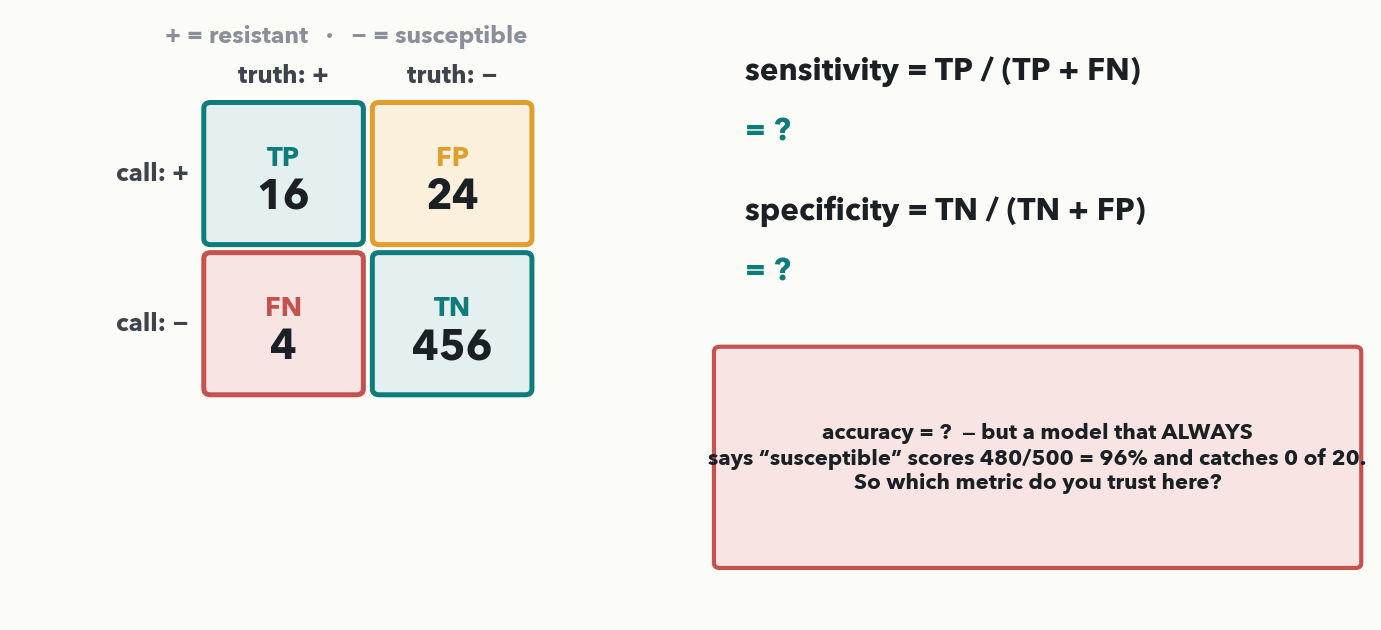
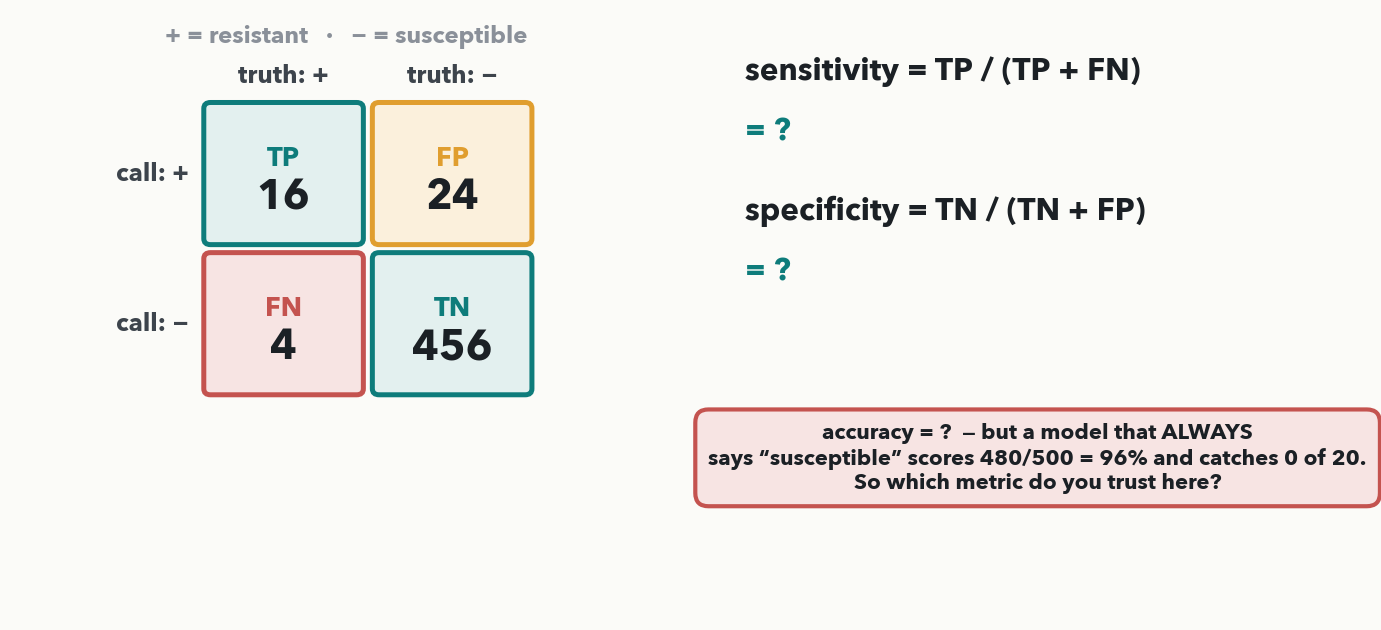
figures: fix text overflowing hand-drawn boxes in 4 figures
Figure-baked text (not pptx boxes) spilled outside fixed matplotlib box
patches: ce_formula's 'so only the TRUE class survives' (+119px each side),
confusion_matrix trap box, dino 'make outputs MATCH', guardrails 'what it
does' x2. Fixes: ce_formula + confusion_matrix now use an auto-fitting text
bbox= instead of an undersized fixed patch; dino/guardrails patches widened
(with arrow endpoint / font tweaks) to contain their labels. Regenerated the
5 affected PNGs.

Add tools/check_figure_overflow.py: a rendering-based checker that draws every
figure via the Agg renderer and flags any Text wider than its enclosing
hand-drawn box (excludes auto-fit bboxes and full-axes-width background panels).
138 renders, 5 overflows -> 0. pptx overlap/text-overflow/fractional-EMU all
still clean; slide counts unchanged.

Changed region(s): [[0.4982, 0.5429, 1.0, 0.9048]]

diff --git a/tools/check_figure_overflow.py b/tools/check_figure_overflow.py
@@ -1,0 +1,223 @@
+#!/usr/bin/env python3
+"""Sanity-check the figure toolkit for text that overflows a hand-drawn box.
+
+This is a DIFFERENT bug from the PowerPoint-box overflow checked by
+tools/check_text_overflow.py. Here the offending text is baked INTO a matplotlib
+figure PNG: a figure function draws a fixed-size box patch (FancyBboxPatch /
+Rectangle) and then draws a SEPARATE ax.text(...) centred over it, at a font size
+whose rendered width/height exceeds the patch -- so the text spills outside the
+box in the final PNG (e.g. ce_formula's "so only the TRUE class survives" box).
+
+How it works (non-invasive): it imports tools.make_slide_figures, monkeypatches
+the module's `_save` so that, right before each real figure is written and
+closed, we draw the Agg canvas, measure every Text artist's rendered pixel
+extent, and for each Text find the enclosing hand-drawn box patch (a
+FancyBboxPatch or Rectangle whose pixel bounds contain the text's anchor point).
+A text that has its OWN auto-fitting bbox (t.get_bbox_patch()) is skipped -- that
+box always fits by construction. If an enclosing patch exists and the text's
+window_extent is not contained within the patch's window_extent (minus TOL_PX on
+each side), it is FLAGGED.
+
+The DEFINING symptom of this bug is horizontal: the rendered text is WIDER than
+the box that is supposed to wrap it, so it spills past the left/right edge. We
+flag only that -- a text whose pixel width exceeds its enclosing box's width by
+more than TOL_PX. This deliberately ignores two look-alikes that are NOT the
+bug: (a) text sitting near the edge of a large CONTAINER panel / axes-background
+rectangle (the text fits the width, it is just tall or near an edge), and
+(b) LaTeX-math labels whose bounding box is inflated vertically by \sum /
+superscripts while the glyphs fit comfortably inside the box.
+
+It then runs the toolkit's real build_all() so every figure is exercised exactly
+as it is normally generated (correct args, correct PNG name) -- but figures are
+NOT written to disk during the check (the monkeypatched _save closes the fig
+without saving), so running the checker never mutates slides/assets/img/.
+
+Usage:
+    python tools/check_figure_overflow.py            # check every figure
+Exit code is nonzero if any box overflows its text.
+"""
+
+import sys
+from pathlib import Path
+
+import matplotlib
+
+matplotlib.use("Agg")
+import matplotlib.pyplot as plt
+from matplotlib.patches import FancyBboxPatch, Rectangle
+from matplotlib.text import Text
+
+ROOT = Path(__file__).resolve().parent.parent
+sys.path.insert(0, str(ROOT / "tools"))
+
+import make_slide_figures as msf  # noqa: E402
+
+# Tolerance: how many pixels a text may poke past its box before we flag it.
+# 3px absorbs antialiasing / rounding; real overflows here are tens of pixels.
+TOL_PX = 3.0
+
+# The figure paper background (matplotlib RGBA of msf.PAPER "#FBFBF8"). A
+# full-span rectangle in this colour is the AXES BACKGROUND, not a wrap-box, so
+# a free caption drawn over the paper must never be treated as "inside a box."
+PAPER_RGBA = (0.98, 0.98, 0.97)
+
+
+def _is_wrapbox(patch, axbb, renderer):
+    """A patch counts as a text-wrapping box only if it is NOT the axes-background
+    paper panel: it must not be paper-coloured AND not span (almost) the full
+    axes width. Real wrap-boxes have a distinct fill (grey/teal/pink/white card)
+    and are narrower than the whole plot."""
+    try:
+        fc = patch.get_facecolor()
+    except Exception:
+        fc = None
+    if fc is not None and patch.get_fill():
+        if all(abs(fc[k] - PAPER_RGBA[k]) < 0.015 for k in range(3)):
+            return False
+    try:
+        bb = patch.get_window_extent(renderer=renderer)
+    except Exception:
+        return True
+    if axbb.width > 1 and bb.width >= 0.95 * axbb.width:
+        return False
+    return True
+
+_flags = []  # (png_name, text_snippet, side->overflow_px, text_bbox, patch_bbox)
+
+
+def _bbox_contains_point(bb, x, y):
+    return bb.x0 <= x <= bb.x1 and bb.y0 <= y <= bb.y1
+
+
+def _snippet(s, n=48):
+    s = " ".join(s.split())
+    return s if len(s) <= n else s[: n - 1] + "\u2026"
+
+
+def _check_fig(fig, name):
+    """Measure every Text against any hand-drawn box that encloses it."""
+    fig.canvas.draw()
+    renderer = fig.canvas.get_renderer()
+
+    for ax in fig.get_axes():
+        axbb = ax.get_window_extent(renderer=renderer)
+        texts = [c for c in ax.get_children() if isinstance(c, Text)]
+        boxes = [
+            c
+            for c in ax.get_children()
+            if isinstance(c, (FancyBboxPatch, Rectangle))
+            and _is_wrapbox(c, axbb, renderer)
+        ]
+        for t in texts:
+            if not t.get_text().strip():
+                continue
+            if not t.get_visible():
+                continue
+            # A text with its OWN auto-fitting bbox always fits -> skip.
+            if t.get_bbox_patch() is not None:
+                continue
+            try:
+                tbb = t.get_window_extent(renderer=renderer)
+            except Exception:
+                continue
+            tcx = 0.5 * (tbb.x0 + tbb.x1)
+            tcy = 0.5 * (tbb.y0 + tbb.y1)
+
+            # Find the SMALLEST hand-drawn box whose pixel bounds contain the
+            # text's centre point (the intended enclosing box).
+            enclosing = None
+            enc_area = None
+            for b in boxes:
+                if not b.get_visible():
+                    continue
+                try:
+                    bbb = b.get_window_extent(renderer=renderer)
+                except Exception:
+                    continue
+                if bbb.width <= 1 or bbb.height <= 1:
+                    continue
+                if _bbox_contains_point(bbb, tcx, tcy):
+                    area = bbb.width * bbb.height
+                    if enc_area is None or area < enc_area:
+                        enclosing, enc_area = bbb, area
+            if enclosing is None:
+                continue
+
+            # The bug is HORIZONTAL: text wider than the box that wraps it.
+            # Require the text to actually be wider than the box (the defining
+            # symptom) before flagging -- this excludes container panels and
+            # tall math bounding boxes whose glyphs fit the width fine.
+            if tbb.width <= enclosing.width + 2 * TOL_PX:
+                continue
+            over = {
+                "left": enclosing.x0 - tbb.x0,
+                "right": tbb.x1 - enclosing.x1,
+            }
+            worst = max(over.values())
+            if worst > TOL_PX:
+                sides = {k: round(v, 1) for k, v in over.items() if v > TOL_PX}
+                _flags.append(
+                    (
+                        name,
+                        _snippet(t.get_text()),
+                        sides,
+                        (round(tbb.x0), round(tbb.y0), round(tbb.x1), round(tbb.y1)),
+                        (
+                            round(enclosing.x0),
+                            round(enclosing.y0),
+                            round(enclosing.x1),
+                            round(enclosing.y1),
+                        ),
+                    )
+                )
+
+
+def main():
+    checked = {"n": 0}
+    real_save = msf._save
+
+    def fake_save(fig, name, dpi=150):
+        checked["n"] += 1
+        try:
+            _check_fig(fig, name)
+        finally:
+            plt.close(fig)
+
+    msf._save = fake_save
+    # Silence the per-figure "wrote ..." spam from build_all's own prints by
+    # keeping them -- they help show progress; but they say "wrote" even though
+    # we do not write. Suppress to avoid confusion.
+    import builtins
+
+    real_print = builtins.print
+
+    def quiet_print(*a, **k):
+        msg = " ".join(str(x) for x in a)
+        if msg.strip().startswith("wrote "):
+            return
+        real_print(*a, **k)
+
+    builtins.print = quiet_print
+    try:
+        msf.build_all()
+    finally:
+        builtins.print = real_print
+        msf._save = real_save
+
+    real_print(f"\nchecked {checked['n']} figure render(s)")
+    if not _flags:
+        real_print("PASS: 0 overflowing box(es)")
+        return 0
+
+    real_print(f"\nFAIL: {len(_flags)} overflowing box(es):")
+    for name, snip, sides, tbb, pbb in _flags:
+        side_str = ", ".join(f"{k} +{v}px" for k, v in sides.items())
+        real_print(f"  [{name}] \"{snip}\"")
+        real_print(f"      overflow: {side_str}")
+        real_print(f"      text  bbox px: {tbb}")
+        real_print(f"      patch bbox px: {pbb}")
+    return 1
+
+
+if __name__ == "__main__":
+    sys.exit(main())

diff --git a/tools/make_slide_figures.py b/tools/make_slide_figures.py
@@ -1340,13 +1340,13 @@ def crossentropy_formula(name="fig_ce_formula.png"):
     ax.text(0.5, 0.68,
             r"truth is one-hot: the true class has $y=1$, every other class $y=0$",
             ha="center", va="center", fontsize=14, color=MUTED)
-    # reduction
-    ax.add_patch(FancyBboxPatch((0.20, 0.40), 0.60, 0.16,
-                boxstyle="round,pad=0.01,rounding_size=0.03",
-                facecolor="#F1F1EC", edgecolor=HAIRLINE, lw=1.3))
+    # reduction -- give the text its own auto-fitting box so it can never
+    # overflow (a fixed FancyBboxPatch was too narrow for the 22pt line).
     ax.text(0.5, 0.48,
             r"so only the TRUE class survives:  $\mathrm{CE}\;=\;-\log(p_{\mathrm{true}})$",
-            ha="center", va="center", fontsize=22, color=TEAL, fontweight="bold")
+            ha="center", va="center", fontsize=22, color=TEAL, fontweight="bold",
+            bbox=dict(boxstyle="round,pad=0.5", facecolor="#F1F1EC",
+                      edgecolor=HAIRLINE, linewidth=1.3))
     # worked substitution anchor
     ax.text(0.5, 0.20,
             r"e.g. truth is R and the model says $p_{\mathrm{true}}=0.90$:   "
@@ -3704,10 +3704,8 @@ def confusion_matrix(tp, fn, fp, tn, mode="ido", name="fig_confusion_ido.png",
             ("= ?" if blank else
              f"= {tn:g} / {neg:g} = {spec:.2f}  ({spec*100:.0f}%)"),
             ha="left", color=TEAL, fontsize=15, fontweight="bold")
-    # the accuracy trap box
-    ax.add_patch(FancyBboxPatch((fx - 0.25, 0.5), 5.7, 2.15,
-                boxstyle="round,pad=0.03,rounding_size=0.05",
-                facecolor="#F7E4E3", edgecolor=RED, lw=2.0))
+    # the accuracy trap box -- give the text its own auto-fitting box so the
+    # longest line can never poke past the edges (a fixed patch was too narrow).
     if blank:
         trap = ("accuracy = ?  — but a model that ALWAYS\n"
                 f"says “{negative}” scores {neg:g}/{total:g} = "
@@ -3719,7 +3717,9 @@ def confusion_matrix(tp, fn, fp, tn, mode="ido", name="fig_confusion_ido.png",
                 f"{always_neg*100:.0f}%\nand catches 0 of {pos:g} {positive}. "
                 "Accuracy lies under imbalance.")
     ax.text(fx + 2.6, 1.57, trap, ha="center", va="center", color=INK,
-            fontsize=10.5, fontweight="bold")
+            fontsize=10.5, fontweight="bold",
+            bbox=dict(boxstyle="round,pad=0.6", facecolor="#F7E4E3",
+                      edgecolor=RED, linewidth=2.0))
     _save(fig, name)
 
 
@@ -4495,13 +4495,14 @@ def dino_student_teacher(name="fig_dino.png"):
                  arrowprops=dict(arrowstyle="-|>", color=INK_SOFT, lw=1.8))
     axl.text(2.9, 4.05, "view 1", ha="center", color=INK_SOFT, fontsize=9.5)
     axl.text(2.9, 1.65, "view 2", ha="center", color=INK_SOFT, fontsize=9.5)
-    # match outputs
-    axl.add_patch(FancyBboxPatch((8.0, 2.35), 3.4, 1.0,
+    # match outputs (widened so the bold label clears both inner edges; the
+    # box is centred on the text at x=9.7, arrow still lands on the left edge)
+    axl.add_patch(FancyBboxPatch((7.6, 2.35), 4.2, 1.0,
                   boxstyle="round,pad=0.02,rounding_size=0.06",
                   facecolor=WHITE, edgecolor=INK_SOFT, lw=2.0))
     axl.text(9.7, 2.85, "make outputs MATCH", ha="center", va="center",
              color=INK, fontsize=11.5, fontweight="bold")
-    axl.annotate("", xy=(8.0, 2.95), xytext=(7.0, 3.7),
+    axl.annotate("", xy=(7.6, 2.95), xytext=(6.9, 3.7),
                  arrowprops=dict(arrowstyle="-|>", color=TEAL, lw=1.8))
     axl.annotate("", xy=(8.0, 2.75), xytext=(7.0, 1.75),
                  arrowprops=dict(arrowstyle="-|>", color=AMBER, lw=1.8))
@@ -5726,11 +5727,11 @@ def guardrails(mode="ido", name="fig_guardrails_ido.png"):
                         facecolor=col, edgecolor=col, lw=2.0))
             ax.text(7.4, y, guard, ha="center", va="center", color=WHITE,
                     fontsize=12.5, fontweight="bold")
-            ax.add_patch(FancyBboxPatch((9.4, y - 0.5), 3.3, 1.0,
+            ax.add_patch(FancyBboxPatch((9.25, y - 0.5), 3.6, 1.0,
                         boxstyle="round,pad=0.02,rounding_size=0.06",
                         facecolor=WHITE, edgecolor=col, lw=1.6))
             ax.text(11.05, y, does, ha="center", va="center", color=INK_SOFT,
-                    fontsize=9.5)
+                    fontsize=9.0)
         else:
             ax.add_patch(FancyBboxPatch((5.6, y - 0.5), 3.6, 1.0,
                         boxstyle="round,pad=0.02,rounding_size=0.06",
